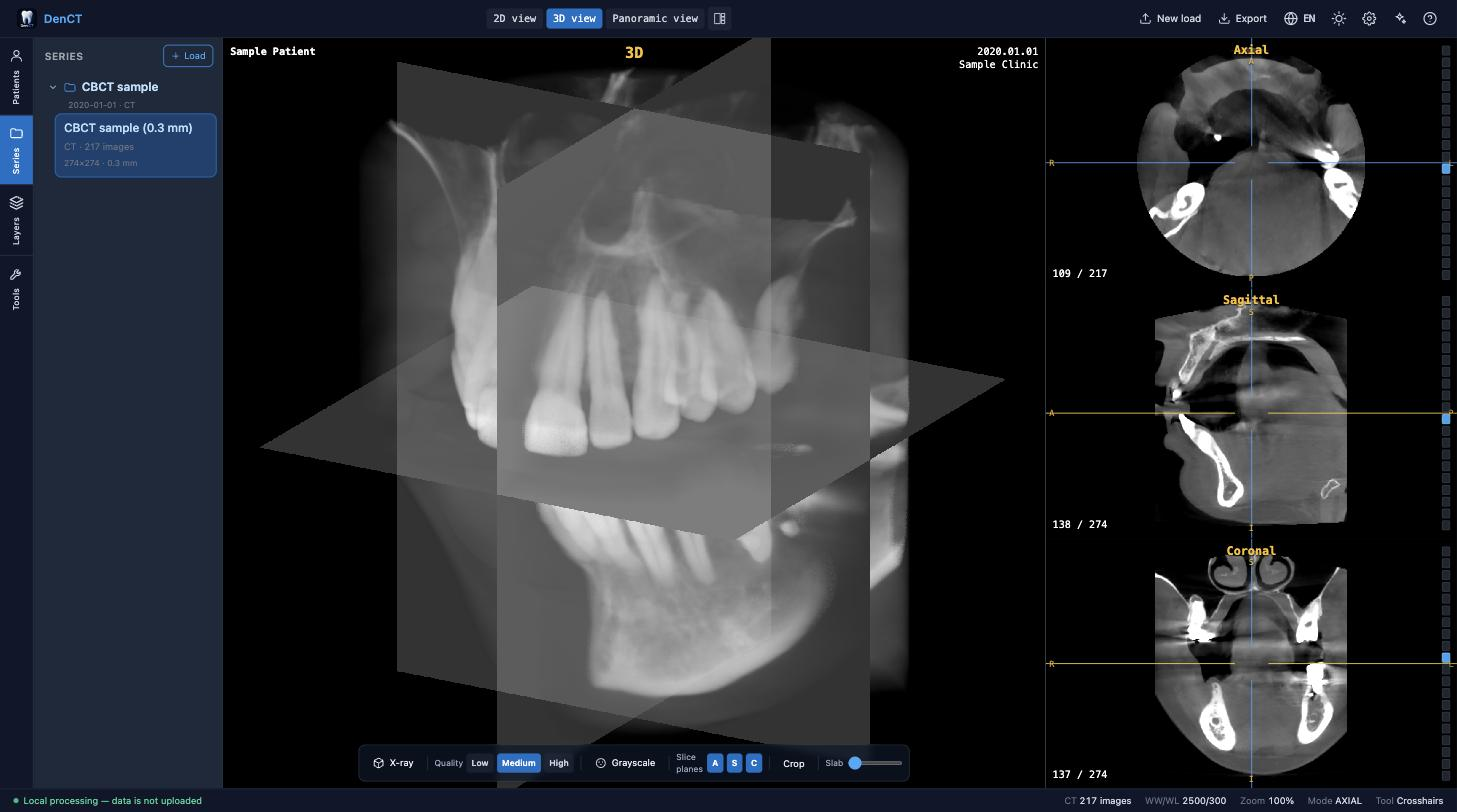
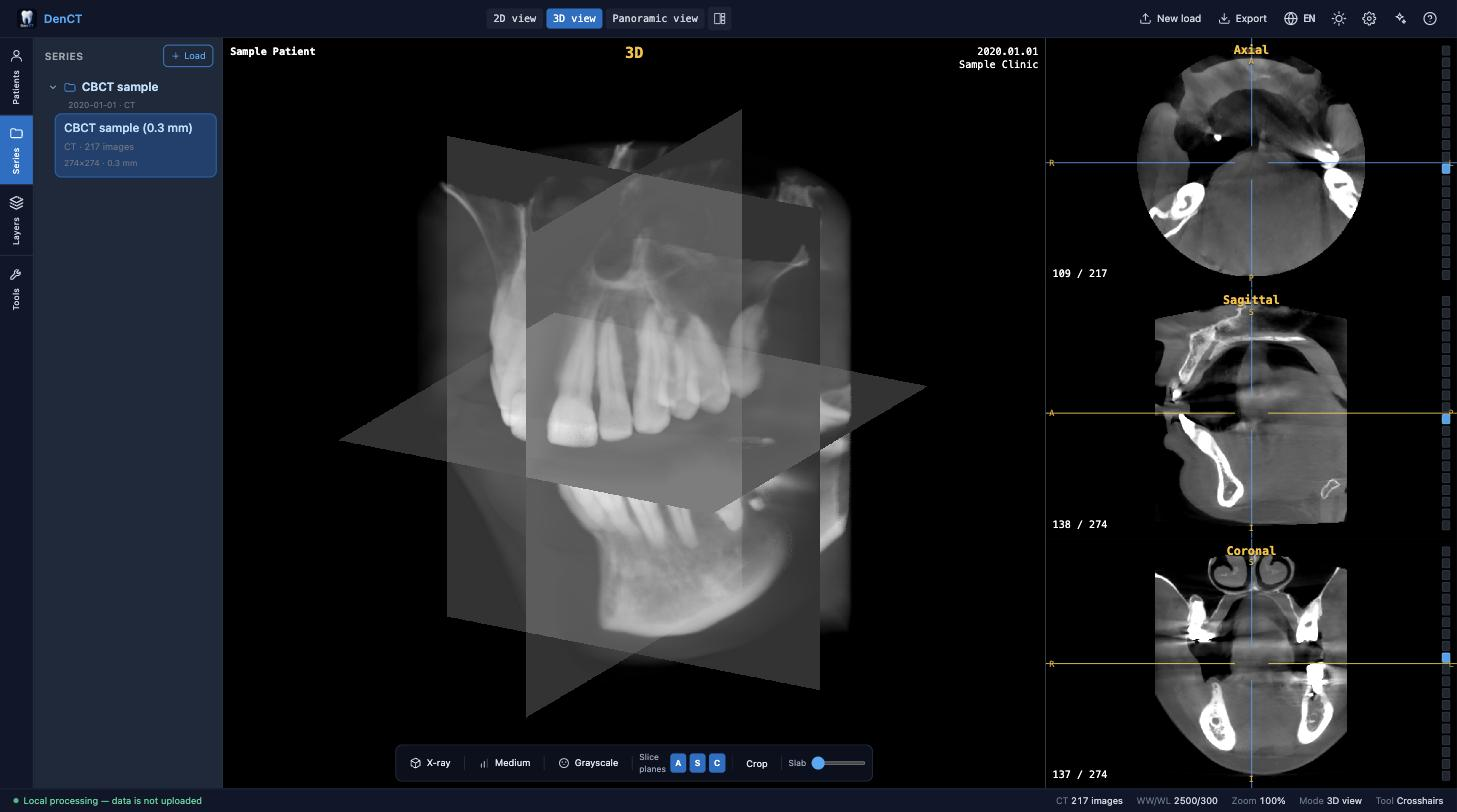
Refresh the landing screenshots, changelog
The shots on the landing page still showed the pre-1.3.0 interface: the
panoramic layout with a coronal pane and the old three-button Quality
control. Recaptured all three against the current build.

Changed region(s): [[0.1853, 0.0308, 0.6795, 0.9852], [0.7412, 0.9852, 0.9266, 1.0]]

diff --git a/CHANGELOG.md b/CHANGELOG.md
@@ -5,6 +5,22 @@ based on [Keep a Changelog](https://keepachangelog.com/en/1.1.0/), and the
 project follows [Semantic Versioning](https://semver.org/spec/v2.0.0.html) from
 `1.0.0` onward.
 
+## [Unreleased]
+
+### Added
+
+- **View preferences are remembered** — the layout (2D / 3D / Panoramic), the
+  1+3 pane arrangement, the panoramic pane order and the 3D slice-plane
+  toggles (A / S / C / CS) are restored on the next visit.
+
+### Changed
+
+- **Much faster first load** — the landing page no longer ships the imaging
+  stack. Cornerstone, vtk.js, jsPDF and the viewer shell are code-split and
+  fetched only when a scan is opened, cutting the landing payload from
+  ~2.4 MB to ~350 kB.
+- Refreshed the landing-page screenshots to the current interface.
+
 ## [1.3.0] — 2026-09-19
 
 ### Added
